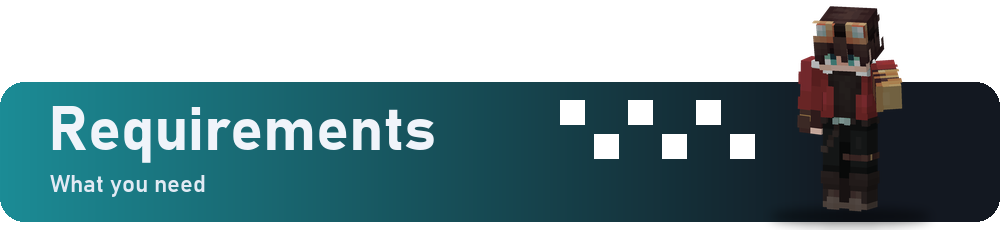
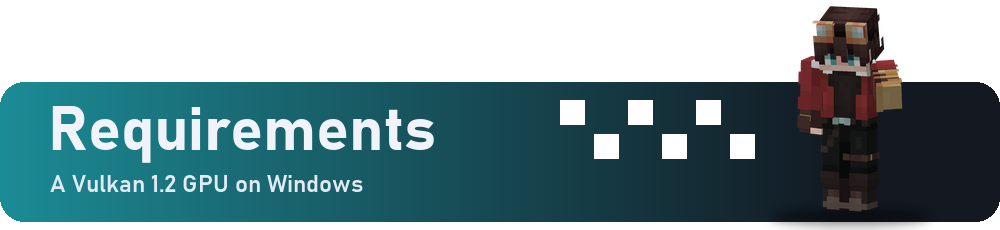
docs: make the Modrinth copy more specific
Section subtitles now say what the section covers, and the About text names the upscalers instead of calling them modern.

Changed region(s): [[0.031, 0.7609, 0.372, 0.8522]]

diff --git a/docs/modrinth/description.md b/docs/modrinth/description.md
@@ -8,7 +8,7 @@
 
 <img src="https://raw.githubusercontent.com/redstone-md/Overhaul/main/docs/assets/modrinth/title-about.png" alt="About" width="100%">
 
-Overhaul replaces Minecraft's OpenGL renderer with a **native Vulkan renderer**. It adds ray traced lighting and modern upscaling, and gives the game a new video settings screen. It talks to Vulkan directly, so it is not a Zink-style translation layer.
+Overhaul replaces Minecraft's OpenGL renderer with a **native Vulkan renderer**. It adds ray traced lighting, DLSS and FSR 2 upscaling, and a new video settings screen. It talks to Vulkan directly and does not translate OpenGL calls.
 
 > **Alpha.** Expect rendering bugs and mod conflicts, and keep backups of your worlds.
 
@@ -25,7 +25,7 @@ Overhaul replaces Minecraft's OpenGL renderer with a **native Vulkan renderer**.
 
 <center><img src="https://raw.githubusercontent.com/redstone-md/Overhaul/main/docs/assets/modrinth/performance.png" alt="Overhaul 385 FPS, vanilla renderer 57 FPS" width="100%"></center>
 
-Ray tracing and shader packs cost frames, as they do in any renderer.
+Ray tracing and shader packs lower these numbers, as in any renderer.
 
 <img src="https://raw.githubusercontent.com/redstone-md/Overhaul/main/docs/assets/modrinth/title-screenshots.png" alt="Screenshots" width="100%">
 
